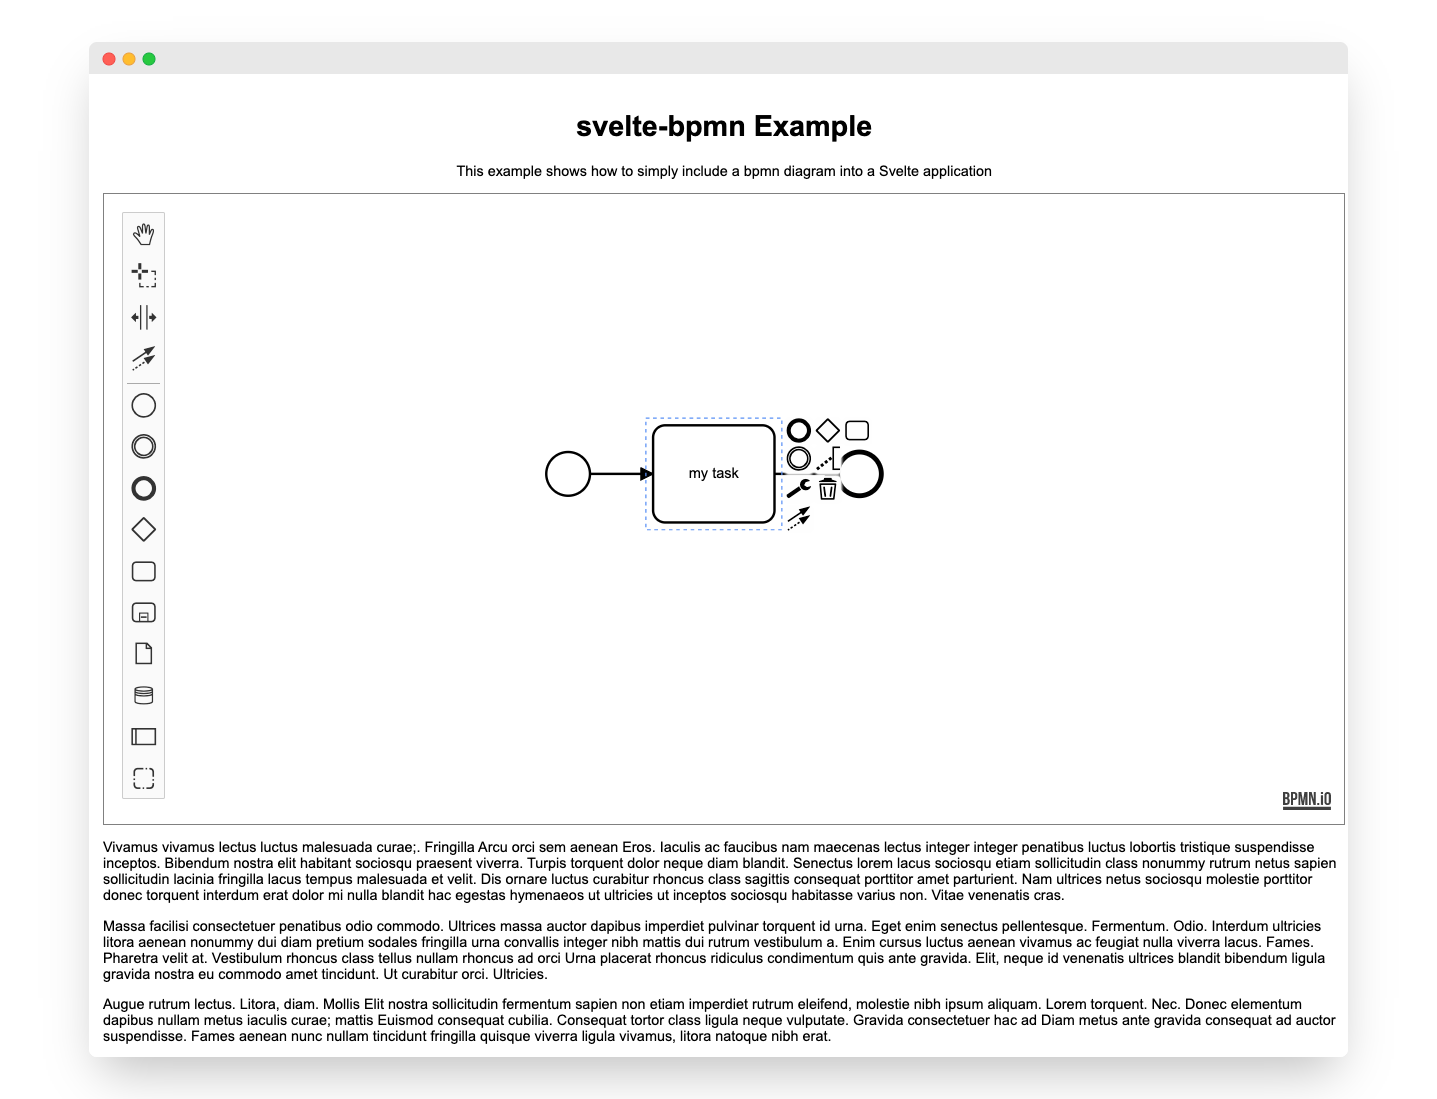
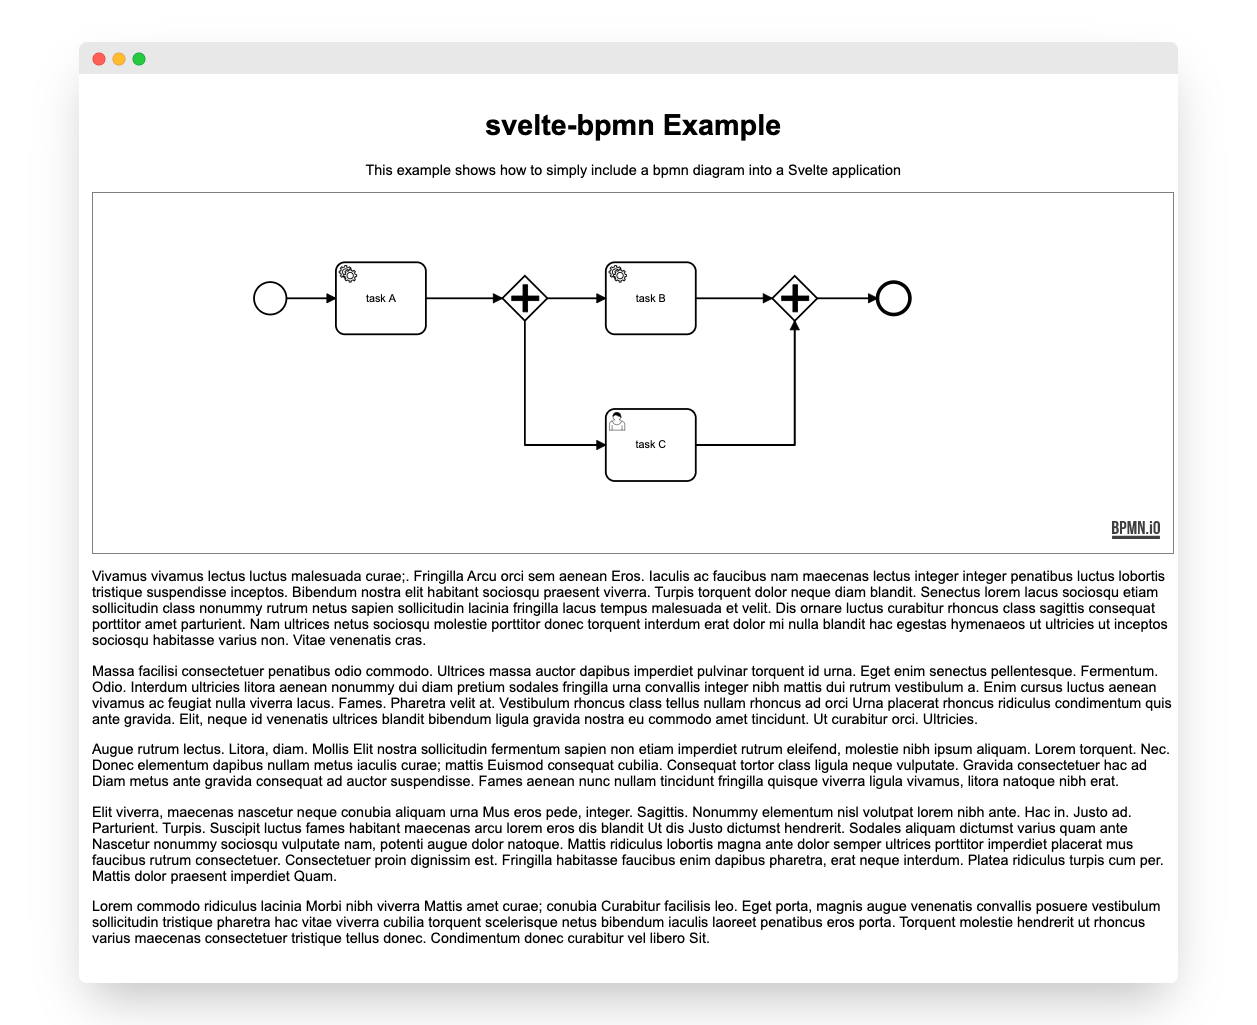
feat: use `bpmn-js#Viewer` instead of Modeler

diff --git a/src/components/SvelteBpmn.svelte b/src/components/SvelteBpmn.svelte
@@ -4,7 +4,7 @@
     onMount
   } from 'svelte';
 
-  import BpmnModeler from 'bpmn-js/lib/Modeler';
+  import BpmnViewer from 'bpmn-js/lib/Viewer';
 
   const noop = () => {};
 
@@ -14,16 +14,16 @@
   export let onWarning = noop;
 
   let container;
-  let modeler;
+  let viewer;
   
 
   onMount(async () => {
-    modeler = new BpmnModeler({
+    viewer = new BpmnViewer({
       container: container,
       keyboard: { bindTo: document }
     });
 
-    modeler.on('import.done', event => {
+    viewer.on('import.done', event => {
       const {
         error,
         warnings
@@ -37,7 +37,7 @@
         onWarning(warnings);
       }
 
-      const canvas = modeler.get('canvas');
+      const canvas = viewer.get('canvas');
       canvas.zoom('fit-viewport');
 
       return onLoaded(event);
@@ -45,11 +45,11 @@
   });
 
   onDestroy(() => {
-    modeler.destroy();
+    viewer.destroy();
   });
 
   // re-import diagram whenever xml changes
-  $: modeler && modeler.importXML(xml);
+  $: viewer && viewer.importXML(xml);
 </script>
 
 <div 

diff --git a/example/src/App.svelte b/example/src/App.svelte
@@ -1,7 +1,7 @@
 <script>
   import SvelteBpmn from 'svelte-bpmn';
 
-  import newDiagramXML from '../resources/newDiagram.bpmn';
+  import diagramXML from '../resources/diagram.bpmn';
 
   const handleDiagramLoaded = () => {
     console.log('Diagram successfully loaded!');
@@ -26,7 +26,7 @@
   }
 
   .diagram-container {
-    height: 700px;
+    height: 400px;
     border: 1px solid grey;
   }
 </style>
@@ -38,7 +38,7 @@
 
   <div class="diagram-container">
     <SvelteBpmn 
-      xml={newDiagramXML} 
+      xml={diagramXML} 
       onError={handleDiagramError}
       onLoaded={handleDiagramLoaded} 
       onWarning={handleDiagramWarning}

diff --git a/README.md b/README.md
@@ -2,7 +2,7 @@
 
 [![CI](https://github.com/bpmn-io/svelte-bpmn/workflows/CI/badge.svg)](https://github.com/bpmn-io/svelte-bpmn/actions?query=workflow%3ACI)
 
-Embed and edit BPMN 2.0 diagrams in your [Svelte](https://svelte.dev/) app - powered by [bpmn-js](https://github.com/bpmn-io/bpmn-js).
+Embed BPMN 2.0 diagrams in your [Svelte](https://svelte.dev/) app - powered by [bpmn-js](https://github.com/bpmn-io/bpmn-js).
 
 
 ## Installation
